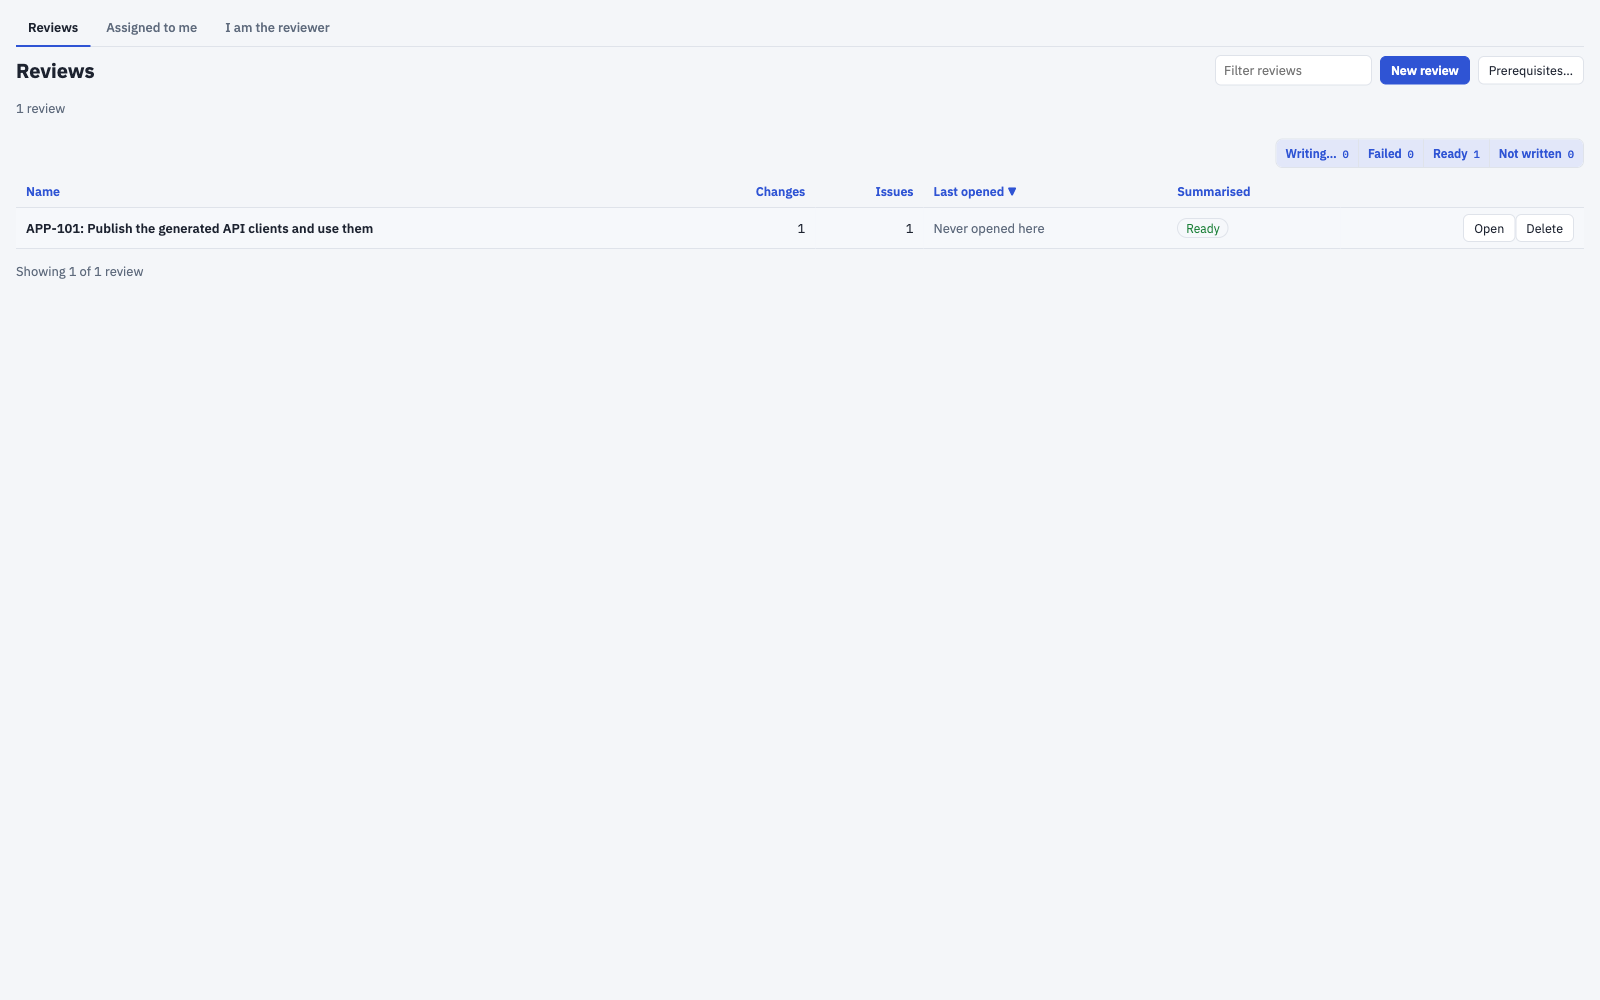
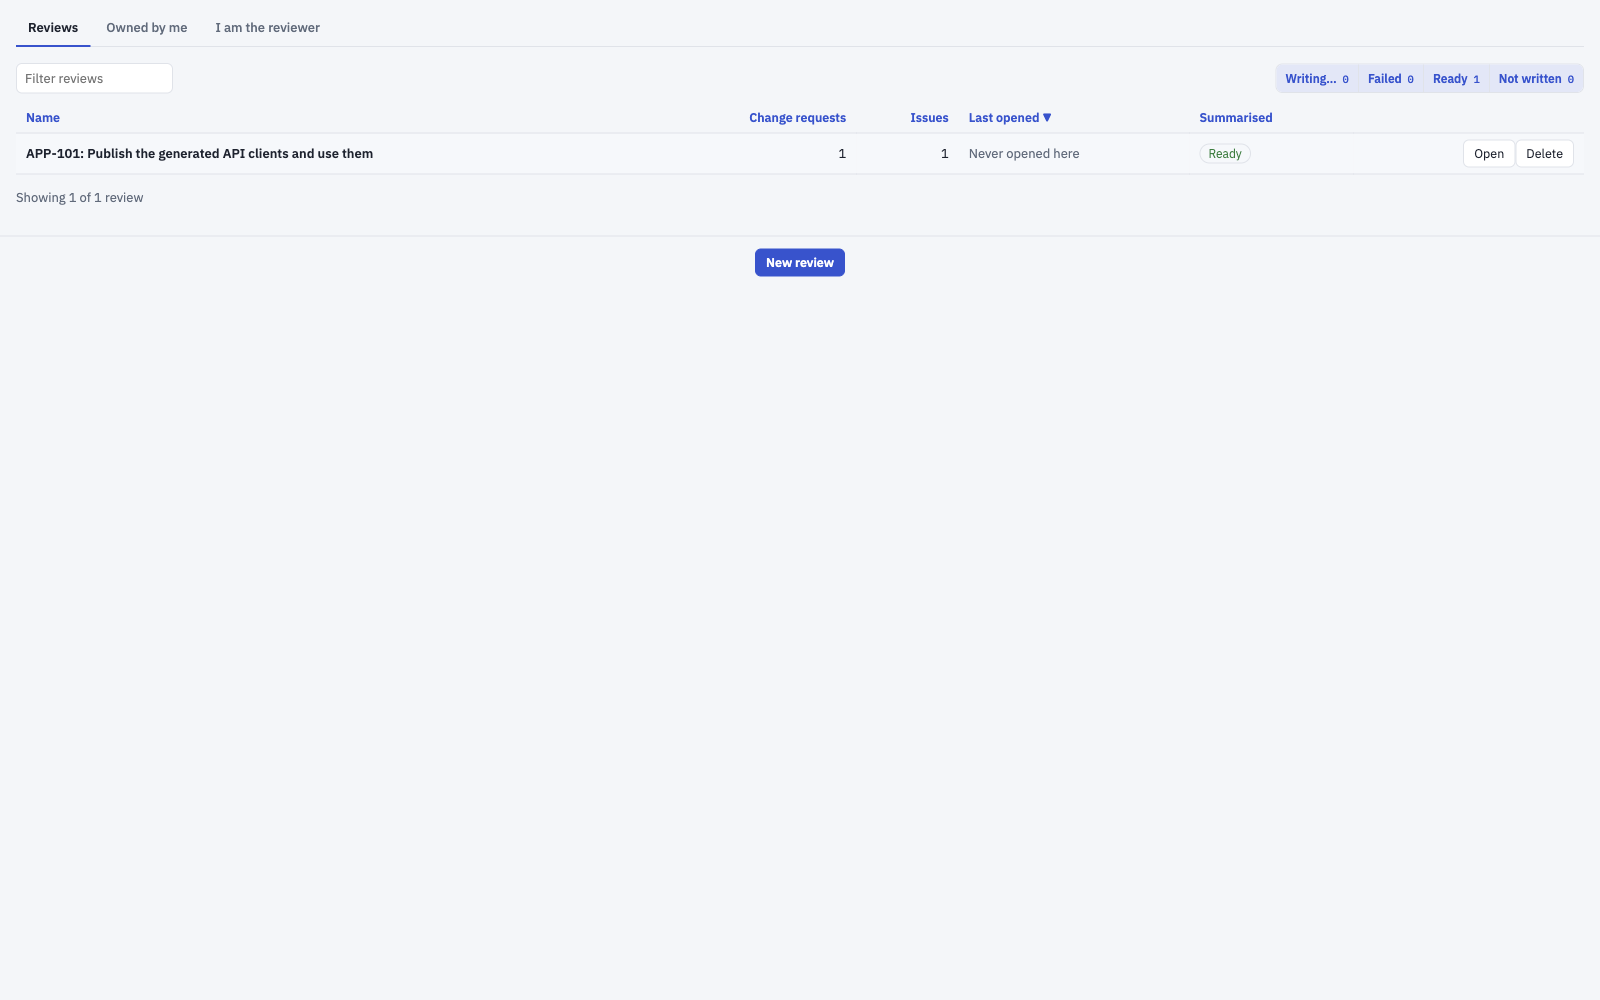
feat: move New review to a bar at the foot of the home page and tidy the Reviews tab (#27)

diff --git a/tests/e2e/my-changes.spec.ts b/tests/e2e/my-changes.spec.ts
@@ -680,6 +680,78 @@ test('New review is off while the Prerequisites are not ready', async () => {
   await expect(page.getByTestId('new-review')).toBeDisabled()
 })
 
+test.describe('the New review bar at the foot of the home page', () => {
+  const boxOf = async (page: Page, testId: string): Promise<{ y: number; height: number }> => {
+    const box = await page.getByTestId(testId).boundingBox()
+    expect(box, testId).not.toBeNull()
+    return box!
+  }
+  const windowHeight = (page: Page): Promise<number> => page.evaluate(() => window.innerHeight)
+  const lastRowBottom = async (page: Page): Promise<number> => {
+    const box = await rows(page).last().boundingBox()
+    return box!.y + box!.height
+  }
+
+  test('is one button at the foot of each of the three tabs, and the tab bar has none', async () => {
+    // Arrange
+    const { page } = await start(baseFixture())
+
+    // Act and assert: one button on the Reviews tab, and on each list tab
+    for (const tab of ['reviews', 'assigned', 'reviewer'] as const) {
+      await page.getByTestId(`home-tab-${tab}`).click()
+      await expect(page.getByTestId('new-review')).toHaveCount(1)
+      await expect(page.locator('.tabbar').getByTestId('new-review')).toHaveCount(0)
+      await expect(page.locator('.newbar').getByTestId('new-review')).toBeVisible()
+    }
+  })
+
+  test('sits right under a short list, and under the rows', async () => {
+    // Arrange
+    const { page } = await start(baseFixture(SEED.slice(0, 2)))
+
+    // Act
+    await openTab(page, 'assigned')
+    await expect(rows(page)).toHaveCount(2)
+
+    // Assert: the bar is below the last row, and the window is taller than the page, so the bar does not touch the bottom of the window
+    const bar = await boxOf(page, 'new-review')
+    expect(bar.y).toBeGreaterThanOrEqual(await lastRowBottom(page))
+    expect(bar.y + bar.height).toBeLessThan((await windowHeight(page)) - 40)
+  })
+
+  test('sticks to the bottom of the window when the list is long, also after a scroll, and never covers a row', async () => {
+    // Arrange: 40 open changes are taller than the window
+    const long: SeedChange[] = Array.from({ length: 40 }, (_, n) => ({
+      provider: 'gitlab' as const,
+      project: GL,
+      iid: 200 + n,
+      title: `Long ${n}`,
+      state: 'opened' as const,
+      author: 'ann',
+      updatedAt: ago(1 + n / 10),
+      assigned: true
+    }))
+    const { page } = await start(changesFixture(long))
+
+    // Act
+    await openTab(page, 'assigned')
+    await expect(rows(page)).toHaveCount(40)
+    const height = await windowHeight(page)
+
+    // Assert: before a scroll the bar is inside the window, at its bottom edge
+    let bar = await boxOf(page, 'new-review')
+    expect(bar.y + bar.height).toBeLessThanOrEqual(height)
+    expect(bar.y + bar.height).toBeGreaterThan(height - 80)
+
+    // Assert: after a scroll to the end it is still there, and the last row ends above it
+    await page.evaluate(() => window.scrollTo(0, document.body.scrollHeight))
+    bar = await boxOf(page, 'new-review')
+    expect(bar.y + bar.height).toBeLessThanOrEqual(height)
+    expect(bar.y + bar.height).toBeGreaterThan(height - 80)
+    expect(await lastRowBottom(page)).toBeLessThanOrEqual(bar.y)
+  })
+})
+
 test.describe('the lists reload by themselves while a list tab is shown', () => {
   test('a poll runs every 60 seconds: none at 50 seconds, one round at 60, and the second round at 120', async () => {
     // Arrange

diff --git a/src/renderer/features/Home.tsx b/src/renderer/features/Home.tsx
@@ -172,17 +172,26 @@ export function Home(props: {
             </button>
           ))}
         </div>
-        <button className="primary" data-testid="new-review" disabled={!!props.blocked} title={gate} onClick={newReview}>
-          {picked.size > 0 ? `New review (${picked.size})` : 'New review'}
-        </button>
       </div>
       {tab !== 'reviews' && <MineList role={tab} mine={mine} picked={picked} onToggle={toggle} blocked={props.blocked} onOpenPrereq={props.onOpenPrereq} />}
       {tab === 'reviews' && (
         <>
-          <header>
-            <h1>Reviews</h1>
-            {total > 0 && (
-              <>
+          {reviews === null && (
+            <p className="muted" data-testid="review-loading">
+              Reading reviews…
+            </p>
+          )}
+
+          {reviews !== null && total === 0 && (
+            <div className="empty">
+              <p>No reviews yet.</p>
+              <p className="muted">Create a review from the change requests of an issue.</p>
+            </div>
+          )}
+
+          {total > 0 && (
+            <>
+              <div className="mrtools reviewtools">
                 <input
                   ref={filterRef}
                   aria-label="Filter reviews"
@@ -191,26 +200,6 @@ export function Home(props: {
                   onChange={(e) => setFilter(e.target.value)}
                   onKeyDown={(e) => e.key === 'Escape' && setFilter('')}
                 />
-              </>
-            )}
-          </header>
-          <p className="muted" data-testid="review-count">
-            {reviews === null ? 'Reading reviews…' : `${total} ${total === 1 ? 'review' : 'reviews'}`}
-          </p>
-
-          {reviews !== null && total === 0 && (
-            <div className="empty">
-              <p>No reviews yet.</p>
-              <p className="muted">Create a review from the change requests of an issue.</p>
-              <button className="primary" disabled={!!props.blocked} title={gate} onClick={newReview}>
-                New review
-              </button>
-            </div>
-          )}
-
-          {total > 0 && (
-            <>
-              <div className="mrtools reviewtools">
                 <div className="seg toggles" role="group" aria-label="Show reviews by summarised state">
                   {SUMMARISED_ORDER.map((k) => (
                     <button
@@ -288,6 +277,13 @@ export function Home(props: {
           )}
         </>
       )}
+
+      {/* The same button on the three tabs. The bar sticks to the bottom of the window when the page is long, and sits under the content when it is short. */}
+      <div className="newbar">
+        <button className="primary" data-testid="new-review" disabled={!!props.blocked} title={gate} onClick={newReview}>
+          {picked.size > 0 ? `New review (${picked.size})` : 'New review'}
+        </button>
+      </div>
 
       {addTo && (
         <AddToReview

diff --git a/tests/e2e/phase3.spec.ts b/tests/e2e/phase3.spec.ts
@@ -79,7 +79,7 @@ const seed = (e: Env, slug: string, content: unknown | string, extra: Record<str
 
 async function home(app: ElectronApplication): Promise<Page> {
   const page = await app.firstWindow()
-  await expect(page.getByRole('heading', { name: 'Reviews' })).toBeVisible()
+  await expect(page.getByTestId('home-tab-reviews')).toBeVisible()
   return page
 }
 
@@ -88,7 +88,6 @@ test('an empty workspace shows the empty state', async () => {
   const app = await launch(env, {})
   const page = await home(app)
   await expect(page.getByText('No reviews yet.')).toBeVisible()
-  await expect(page.getByTestId('review-count')).toHaveText('0 reviews')
   await app.close()
 })
 
@@ -179,7 +178,7 @@ test('a review whose repo is not in the workspace fails with the clone message a
   await expect(panel).toContainText(`team/gone has no local clone in ${env.root}. Clone it there, then retry.`)
   await expect(page.getByTestId('stage-clones')).toHaveAttribute('data-state', 'failed')
   await page.getByRole('button', { name: 'Back to Home' }).click()
-  await expect(page.getByRole('heading', { name: 'Reviews' })).toBeVisible()
+  await expect(page.getByTestId('home-tab-reviews')).toBeVisible()
   await app.close()
 })
 
@@ -193,7 +192,7 @@ test('Cancel stops a slow build and returns to Home', async () => {
   await expect(page.getByText('Reading and diffing the changes. This takes a few seconds.')).toBeVisible()
   const t0 = Date.now()
   await page.getByTestId('cancel-build').click()
-  await expect(page.getByRole('heading', { name: 'Reviews' })).toBeVisible({ timeout: 10_000 })
+  await expect(page.getByTestId('home-tab-reviews')).toBeVisible({ timeout: 10_000 })
   expect(Date.now() - t0).toBeLessThan(10_000)
   await app.close()
 })

diff --git a/tests/e2e/home-columns.spec.ts b/tests/e2e/home-columns.spec.ts
@@ -32,6 +32,34 @@ test('the list of reviews has a Name column and no Slug column, and the filter w
   await started.app.close()
 })
 
+test('the filter box sits in the same row as the Summarised pills, at the left, and the pills at the right', async () => {
+  // Arrange
+  const env = makeEnv()
+  seedReview(env, 'R-1')
+  seedReview(env, 'R-2', { title: 'Second review' })
+  const started = await launch(env, mrFixture('team/backend/x', 12, env.shas.a, env.shas.b))
+  forge = started.forge
+  const page = await home(started.app)
+
+  // Act
+  const input = await page.getByLabel('Filter reviews').boundingBox()
+  const pills = await page.getByRole('group', { name: 'Show reviews by summarised state' }).boundingBox()
+
+  // Assert: the same row (the middles are close), with the box to the left of the pills, and the page has no heading with the name of the tab
+  expect(input).not.toBeNull()
+  expect(pills).not.toBeNull()
+  expect(Math.abs(input!.y + input!.height / 2 - (pills!.y + pills!.height / 2))).toBeLessThan(8)
+  expect(input!.x + input!.width).toBeLessThanOrEqual(pills!.x)
+  const table = await page.locator('table.reviews').boundingBox()
+  expect(Math.abs(input!.x - table!.x)).toBeLessThan(4)
+  await expect(page.getByRole('heading', { name: 'Reviews' })).toHaveCount(0)
+
+  // The count of the reviews shows once, in the footer of the grid, and not under the heading
+  await expect(page.getByTestId('showing')).toHaveText('Showing 2 of 2 reviews')
+  await expect(page.getByText(/^\d+ reviews?$/)).toHaveCount(0)
+  await started.app.close()
+})
+
 test('the Open and Delete buttons of every review are visible and clickable without a hover', async () => {
   // Arrange
   const env = makeEnv()

diff --git a/tests/e2e/phase6.spec.ts b/tests/e2e/phase6.spec.ts
@@ -102,7 +102,7 @@ async function openReview(
     env: { ...process.env, CODEDIFF_USER_DATA: s.ud, ...forgeEnv(forge.url), ...extraEnv } as Record<string, string>
   })
   const page = await app.firstWindow()
-  await expect(page.getByRole('heading', { name: 'Reviews' })).toBeVisible()
+  await expect(page.getByTestId('home-tab-reviews')).toBeVisible()
   await page.getByTestId('review-R-1').dblclick()
   await expect(page.getByTestId('mrs-tab')).toBeVisible()
   return { app, page }
@@ -251,7 +251,7 @@ test('a new review can start with spec files, and a refused file is shown before
     env: { ...process.env, CODEDIFF_USER_DATA: s.ud, ...forgeEnv(forge.url), CODEDIFF_TEST_PICK_FILES: JSON.stringify([f.md, f.pdf]) } as Record<string, string>
   })
   const page = await app.firstWindow()
-  await expect(page.getByRole('heading', { name: 'Reviews' })).toBeVisible()
+  await expect(page.getByTestId('home-tab-reviews')).toBeVisible()
   await page.getByTestId('new-review').click()
   await page.getByTestId('urls').fill('https://gitlab.com/team/backend/x/-/merge_requests/12')
   await page.getByTestId('name').fill('S-1')

diff --git a/tests/e2e/changes-table.spec.ts b/tests/e2e/changes-table.spec.ts
@@ -138,7 +138,7 @@ function buildFixture(shas: Record<string, { base: string; head: string }>, over
 }
 
 async function openReview(page: Page): Promise<void> {
-  await expect(page.getByRole('heading', { name: 'Reviews' })).toBeVisible()
+  await expect(page.getByTestId('home-tab-reviews')).toBeVisible()
   await page.getByTestId('review-R-1').dblclick()
   await expect(page.getByTestId('mrs-summary')).toBeVisible(WAIT)
 }
@@ -635,7 +635,7 @@ test.describe('the group buttons', () => {
 
     // Assert: the other review starts with No group, and the first one is not changed by it
     await page.reload()
-    await expect(page.getByRole('heading', { name: 'Reviews' })).toBeVisible()
+    await expect(page.getByTestId('home-tab-reviews')).toBeVisible()
     await page.getByTestId('review-R-2').dblclick()
     await expect(page.getByTestId('mrs-summary')).toBeVisible(WAIT)
     await expect(modes(page).getByRole('button', { name: 'No group', exact: true })).toHaveAttribute('aria-pressed', 'true')

diff --git a/tests/e2e/phase11.spec.ts b/tests/e2e/phase11.spec.ts
@@ -78,7 +78,7 @@ async function openHome(s: Setup, extra: Record<string, string> = {}): Promise<{
   const env = { ...process.env, CODEDIFF_USER_DATA: s.ud, ...forgeEnv(forge.url), FAKE_CLAUDE_LOG: s.log, ...extra } as Record<string, string>
   const app = await electron.launch({ args: [main], env })
   const page = await app.firstWindow()
-  await expect(page.getByRole('heading', { name: 'Reviews' })).toBeVisible()
+  await expect(page.getByTestId('home-tab-reviews')).toBeVisible()
   return { app, page, env }
 }
 
@@ -94,7 +94,7 @@ test('a second start with --mr and --issue hands over to the open app, which fil
   await expect(page.getByTestId('issues')).toHaveValue('LX-7')
   await expect(page.getByTestId('name')).toHaveValue('From outside')
   // nothing was created
-  await expect(page.getByTestId('review-count')).toContainText('0')
+  await expect(page.getByText('No reviews yet.')).toBeVisible()
   await app.close()
 })
 

diff --git a/src/renderer/styles.css b/src/renderer/styles.css
@@ -436,6 +436,18 @@ textarea {
 .tabbar .tabs {
   flex: 1;
 }
+/* The New review bar at the foot of the home page. It sticks to the bottom of the window while the list is long, and sits right under the list when the list is short. */
+.newbar {
+  position: sticky;
+  bottom: 0;
+  z-index: 5;
+  display: flex;
+  justify-content: center;
+  margin: 16px -24px -24px;
+  padding: 12px 24px;
+  background: var(--page);
+  border-top: 1px solid var(--line);
+}
 .tabs {
   display: flex;
   gap: 4px;
@@ -1205,6 +1217,10 @@ button.ask {
 .reviewtools {
   justify-content: flex-end;
   margin-top: 8px;
+}
+/* The filter box sits at the left of the row, and the pills stay at the right. */
+.reviewtools input {
+  margin-right: auto;
 }
 tr.minegroup td {
   font-weight: 600;

diff --git a/tests/e2e/screenshots.spec.ts b/tests/e2e/screenshots.spec.ts
@@ -298,7 +298,7 @@ test('screenshots of the main screens', async () => {
   const page = await app.firstWindow()
   await page.setViewportSize({ width: 1600, height: 1000 })
   const shot = (name: string): Promise<Buffer> => page.screenshot({ path: join(out!, `${name}.png`) })
-  await expect(page.getByRole('heading').first()).toBeVisible()
+  await expect(page.getByTestId('home-tab-reviews')).toBeVisible()
   await shot('home')
   await page.getByTestId('home-tab-assigned').click()
   await expect(page.locator('tr[data-testid^="mr-"]').first()).toBeVisible()

diff --git a/tests/e2e/phase4.spec.ts b/tests/e2e/phase4.spec.ts
@@ -88,7 +88,7 @@ async function open(s: Setup, iids: number[], fixture: Record<string, unknown>):
     env: { ...process.env, CODEDIFF_USER_DATA: s.ud, ...forgeEnv(forge.url) } as Record<string, string>
   })
   const page = await app.firstWindow()
-  await expect(page.getByRole('heading', { name: 'Reviews' })).toBeVisible()
+  await expect(page.getByTestId('home-tab-reviews')).toBeVisible()
   await page.getByTestId('review-R-1').dblclick()
   await page.getByTestId('tab-diff').click()
   await expect(page.getByTestId('diff-tab')).toBeVisible()

diff --git a/tests/e2e/tree-rows.spec.ts b/tests/e2e/tree-rows.spec.ts
@@ -121,7 +121,7 @@ async function launch(): Promise<{ app: ElectronApplication; page: Page }> {
     env: { ...process.env, CODEDIFF_USER_DATA: s.ud, ...forgeEnv(forge.url) } as Record<string, string>
   })
   const page = await app.firstWindow()
-  await expect(page.getByRole('heading', { name: 'Reviews' })).toBeVisible()
+  await expect(page.getByTestId('home-tab-reviews')).toBeVisible()
   await page.getByTestId('review-R-1').dblclick()
   await expect(page.getByTestId('mrs-tab')).toBeVisible()
   await page.getByTestId('tab-diff').click()

diff --git a/tests/e2e/viewed-stacked.spec.ts b/tests/e2e/viewed-stacked.spec.ts
@@ -100,7 +100,7 @@ async function launch(): Promise<{ app: ElectronApplication; page: Page }> {
     env: { ...process.env, CODEDIFF_USER_DATA: s.ud, ...forgeEnv(forge.url) } as Record<string, string>
   })
   const page = await app.firstWindow()
-  await expect(page.getByRole('heading', { name: 'Reviews' })).toBeVisible()
+  await expect(page.getByTestId('home-tab-reviews')).toBeVisible()
   await page.getByTestId('review-R-1').dblclick()
   await expect(page.getByTestId('mrs-tab')).toBeVisible()
   await page.getByTestId('tab-diff').click()
